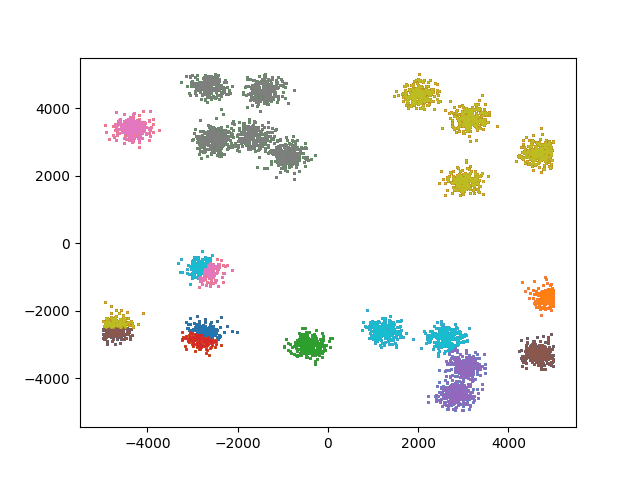
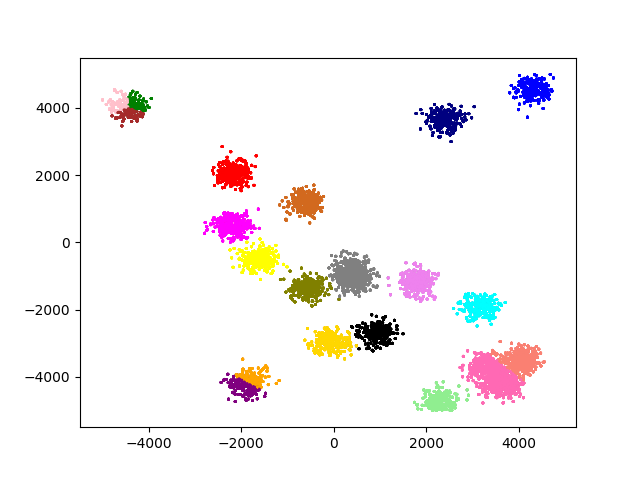
k-means centroid done

diff --git a/main.py b/main.py
@@ -22,7 +22,7 @@ def generateStartingPoints():
 def generateOtherPoints(pa, op):
     count = 0
 
-    while count != 5000:
+    while count != 20000:
         rand_num = random.randrange(0, len(pa))
         random_point = pa[rand_num]
         point = []
@@ -73,7 +73,7 @@ def assign_clusters(other_points, centroids, clusters):
 
 
 # vykresli body
-def printGraph(k, clusters_arr):
+def printGraph(k, clusters_arr, h):
     colors = ["black", "green", "orange", "red", "blue", "magenta", "yellow", "purple", "pink", "gray", "brown",
               "salmon", "chocolate", "lightgreen", "hotpink", "navy", "violet", "gold", "olive", "cyan", " lime",
               "olivedrab"]
@@ -81,7 +81,7 @@ def printGraph(k, clusters_arr):
         points_x, points_y = createXY_arrays(clusters_arr[i])
         plt.scatter(points_x, points_y, 1, marker="o", facecolors="none", edgecolors=colors[i])
         #plt.scatter(points_x, points_y, 1)
-    # plt.savefig("obr/" + str(h) + ".png")
+    #plt.savefig("obr/" + str(h) + ".png")
     plt.show()
 
 
@@ -93,16 +93,6 @@ def k_mean(k, other_points):
     plt.show()
 
     clusters = []
-    centroids = []
-    counter = k
-
-    """
-    while counter != 0: # vytvori centroidy z bodov
-        centroid = random.choice(other_points)
-        if centroid not in centroids:
-            centroids.append(centroid)
-            counter -= 1
-    """
     centroids = generateStartingPoints()
 
     for i in centroids:  # prida centroidy do klusterov
@@ -115,10 +105,11 @@ def k_mean(k, other_points):
     for i in clusters:  # vymaze centroidy z clusterov
         del i[0]
 
-    printGraph(k, clusters)
+    printGraph(k, clusters, 0)
 
     # other iterations
     clusters_old = []
+    h = 1
     while True:
         centroids.clear()
 
@@ -154,8 +145,8 @@ def k_mean(k, other_points):
         clusters_old.clear()
         for i in clusters:
             clusters_old.append(i)
-
-    printGraph(k, clusters)
+        h += 1
+    printGraph(k, clusters, h)
 
     # return clusters
 
@@ -169,19 +160,8 @@ def main():
 
     k = 20
     # clusters_arr = k_mean(k, other_points)
+
     k_mean(k, other_points)
-
-    """
-    points_x, points_y = createXY_arrays(points_array)
-    plt.scatter(points_x, points_y, 1, color='black', marker="o", facecolors="none", edgecolors="black")
-
-    points_x, points_y = createXY_arrays(other_points)
-    plt.scatter(points_x, points_y, 1, color='black', marker="o", facecolors="none", edgecolors="black")
-    plt.savefig("0.png")
-
-    plt.show()
-    """
-    # printGraph(k, clusters_arr)
 
 
 if __name__ == '__main__':
